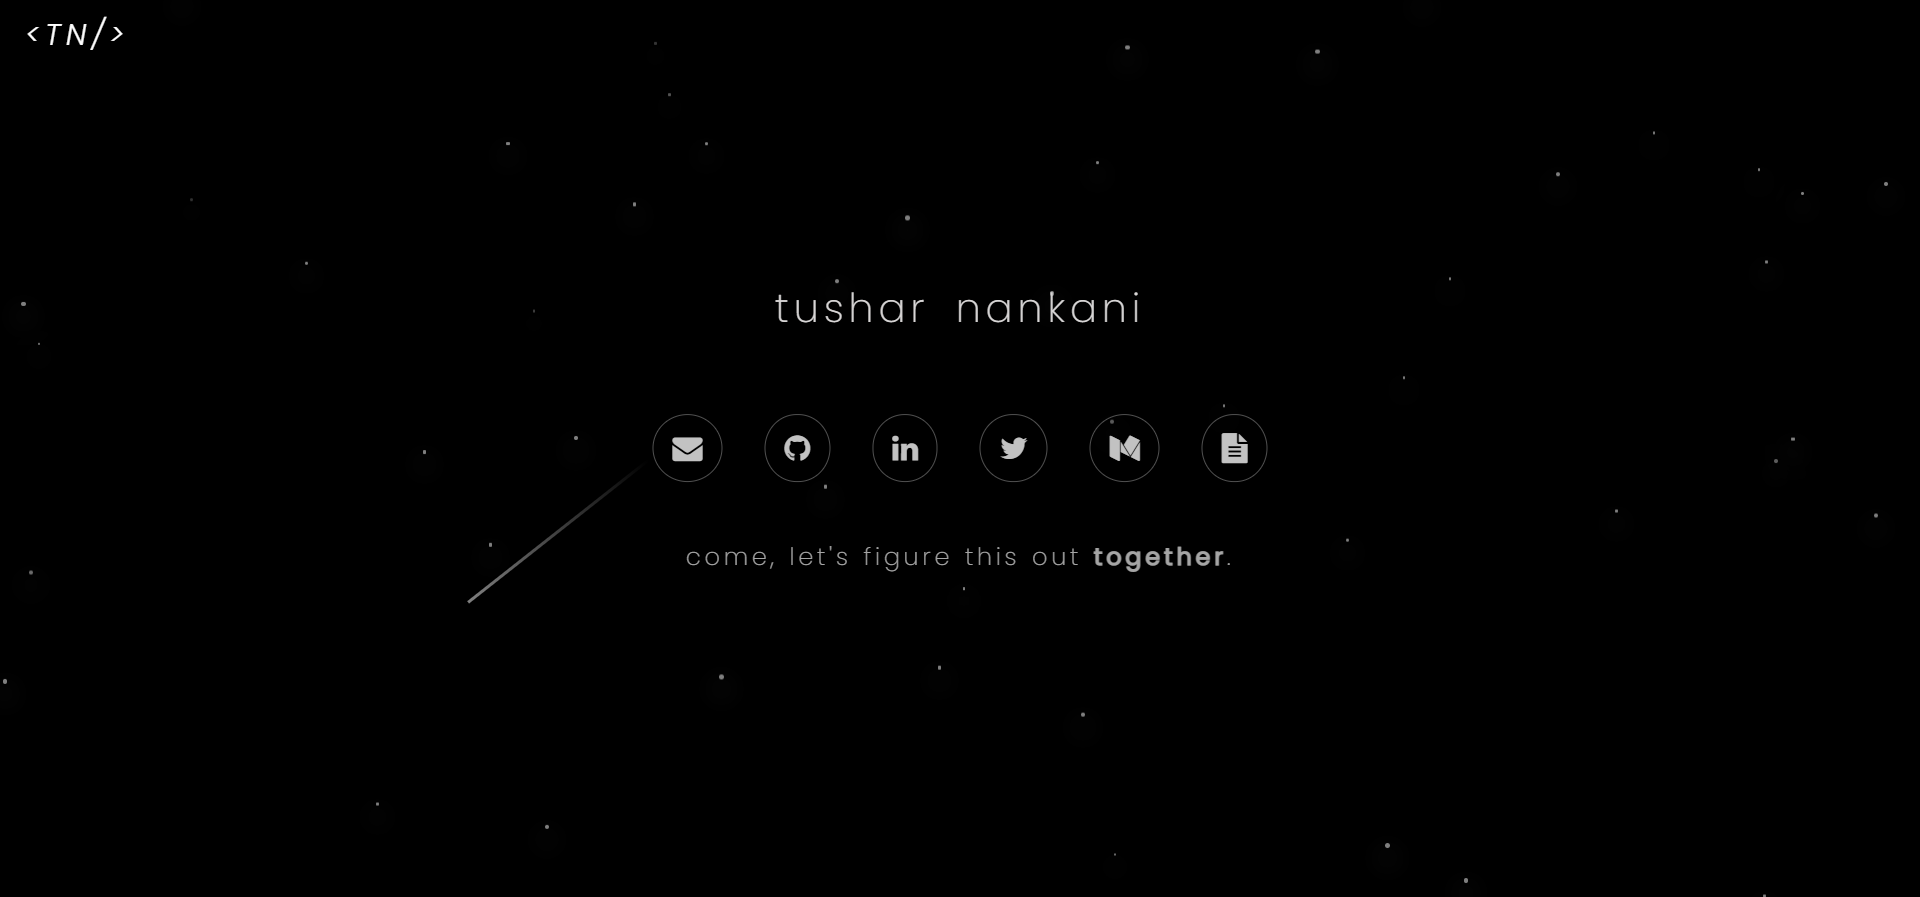
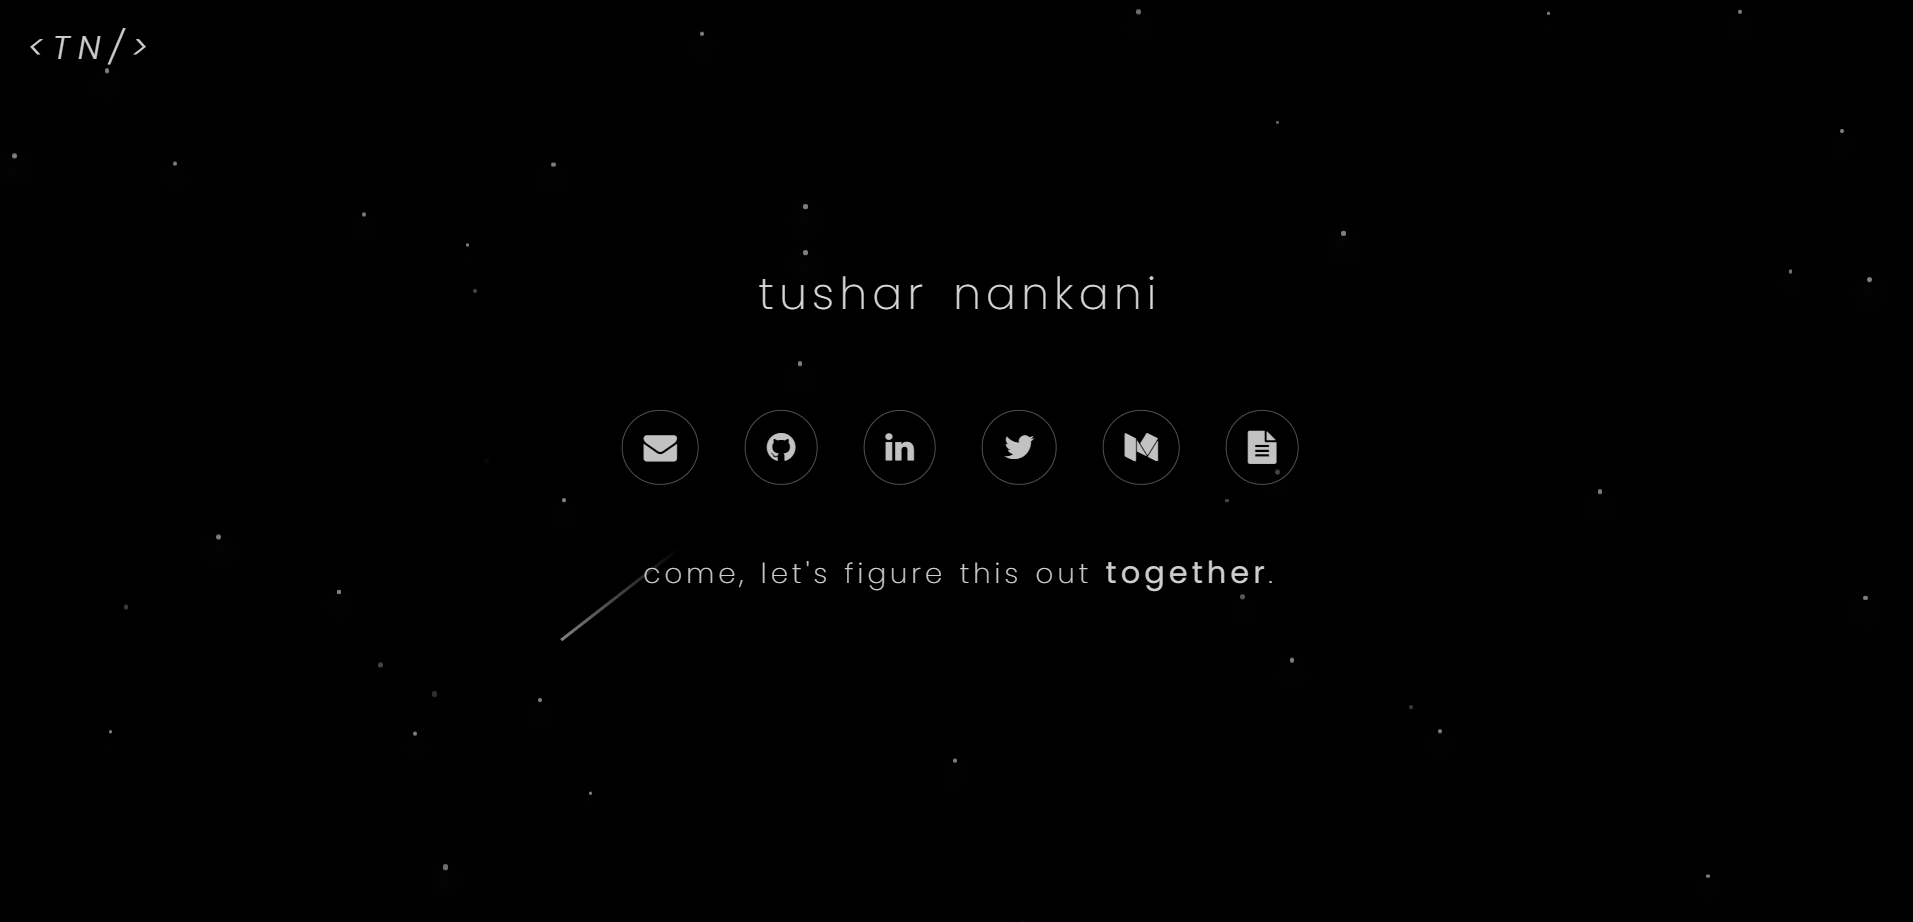
:hammer: refactor: fix css, update README

diff --git a/assets/css/style.css b/assets/css/style.css
@@ -96,7 +96,7 @@ header nav {
 header nav .logo {
 	font-size: 24px;
 	max-width: 100px;
-	color: #cecececc;
+	color: #cececeee;
 	letter-spacing: 6px;
 	font-style: italic;
 }
@@ -131,8 +131,8 @@ header nav .btn-group .btn {
 }
 
 .tagline {
-	color: #cececedd;
-	font-size: 1.2em;
+	color: #cecece;
+	font-size: 1.25em;
 	font-weight: 200;
 	margin-top: 2.8em;
 	letter-spacing: 3px;
@@ -141,8 +141,8 @@ header nav .btn-group .btn {
 
 .tagline a {
 	text-decoration: none;
-	color: #cececeee;
-	font-size: 1em;
+	color: #cececeef;
+	font-size: 1.1em;
 	font-weight: 400;
 }
 

diff --git a/README.md b/README.md
@@ -1,15 +1,15 @@
 # About
 
-A minimalisitic portfolio.
+A minimalisitic responsive portfolio.
 
 ![](image/README/demo.png)
 
-## Author/Design
+## *Author*
 
 Tushar Nankani
 
--   [Twitter](https://twitter.com/tusharnankanii)
+- [Twitter](https://twitter.com/tusharnankanii) | [LinkedIn](https://www.linkedin.com/in/tusharnankani/)
 
 ### License
 
--   [MIT](LICENSE)
+- [MIT](LICENSE)
